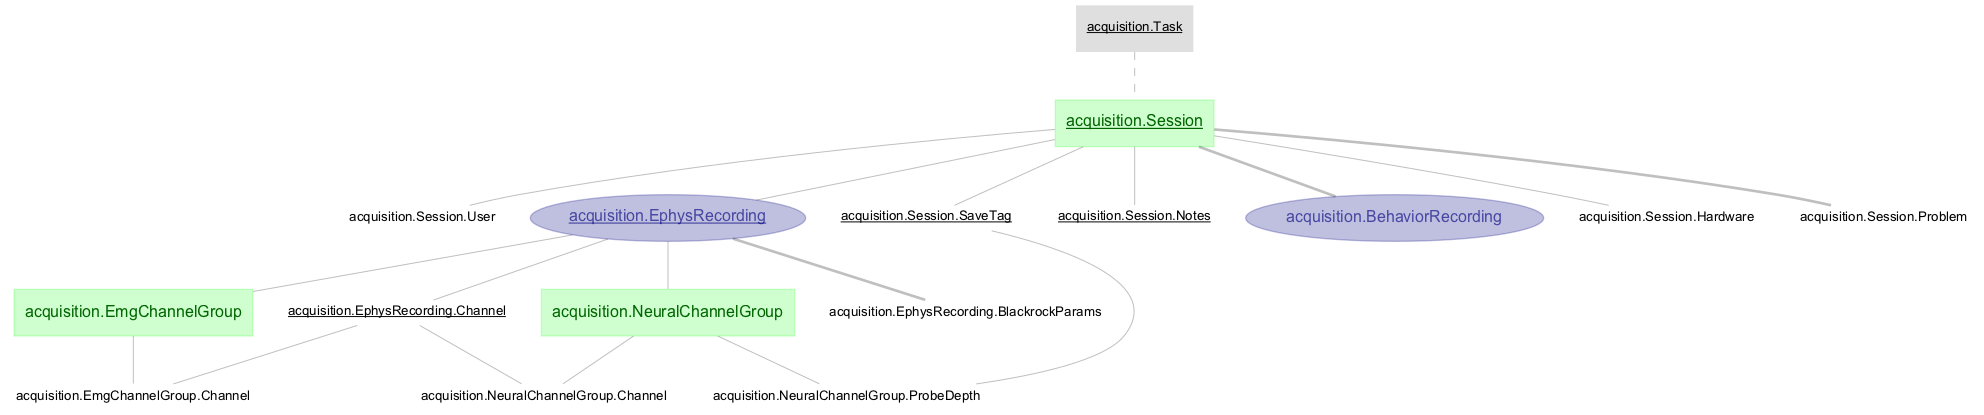
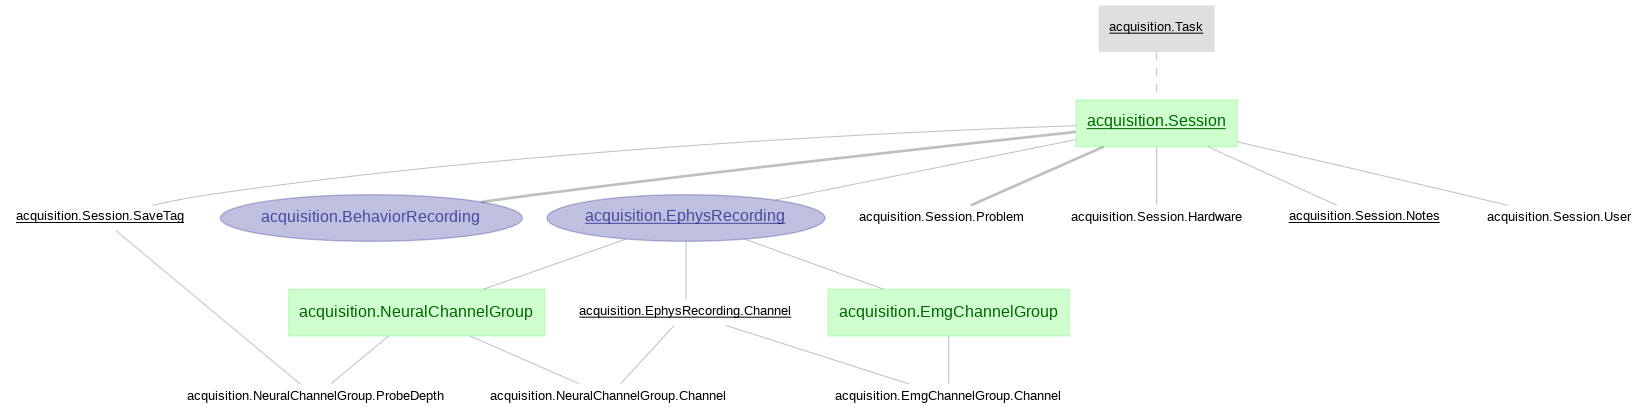
Updated ERDs (and Docker compose files accordingly)

diff --git a/README.md b/README.md
@@ -57,17 +57,17 @@ If you feel happy with the changes you've made, you can add, commit and push the
 
 ## Pipeline schemas
 
-### Equipment list
+### Equipment
 ![equipment erd](images/equipment_erd.png)
 
-### Acquisition pipeline
+### Acquisition
 ![acquisition erd](images/acquisition_erd.png)
 
-### Common pipeline
+### Common
 ![common erd](images/common_erd.png)
 
-### Neural pipeline
+### Neural
 ![neural erd](images/neural_erd.png)
 
-### EMG pipeline
+### EMG
 ![emg erd](images/emg_erd.png)

diff --git a/datajoint_pacman/README.md b/datajoint_pacman/README.md
@@ -1,3 +1,12 @@
-# Pac-Man Task pipeline
+# Pac-Man Task Pipeline
 
-![pacman erd](../../../images/pacman_erd.png)
+## Pipeline schemas
+
+### Task
+![pacman erd](images/pacman_erd.png)
+
+### Acquisition
+![pacman acquisition erd](images/pacman_acquisition_erd.png)
+
+### Processing
+![pacman processing erd](images/pacman_processing_erd.png)
